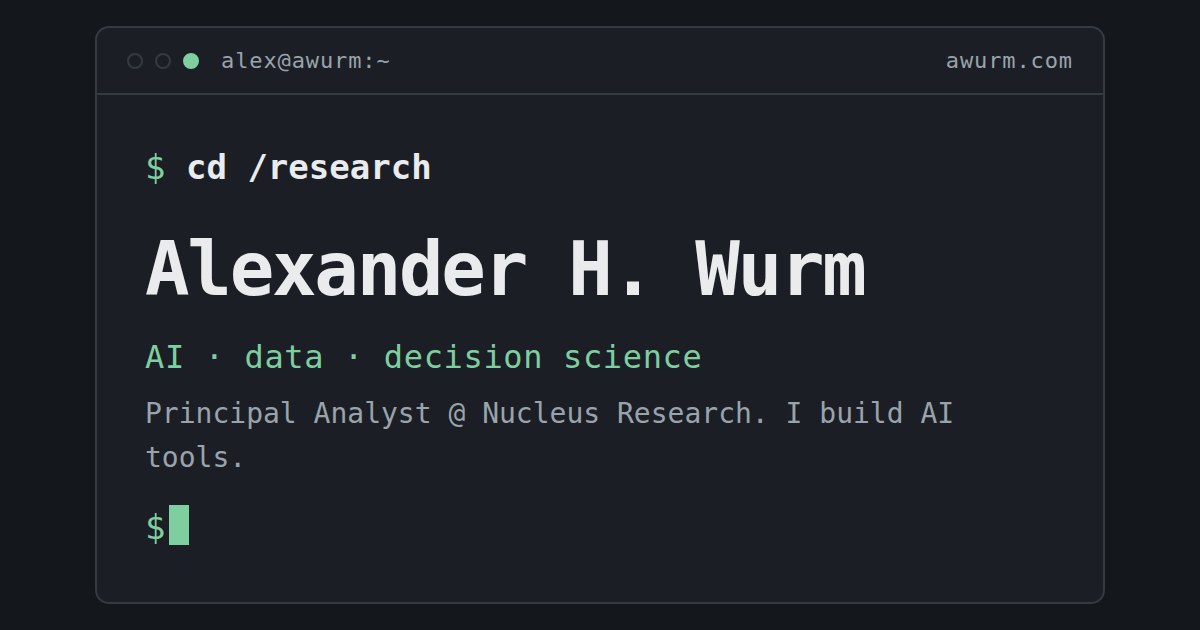
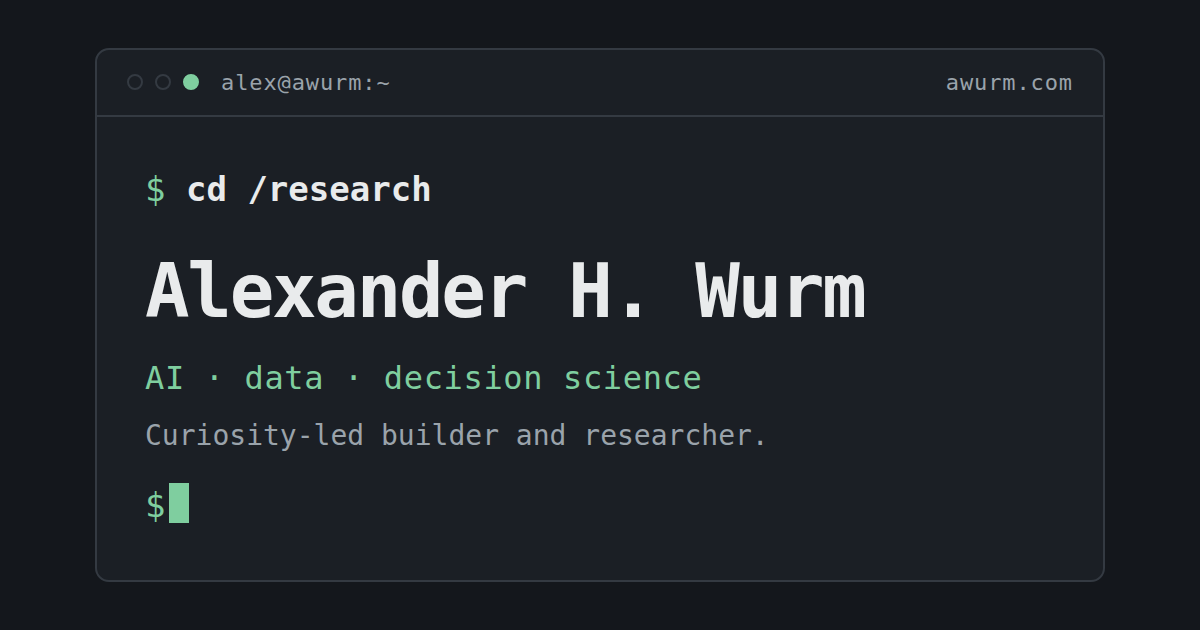
feat: 'Curiosity-led builder and researcher' identity line site-wide; strip Principal Analyst/Nucleus from chrome (hero, terminal, footer, meta, OG, llms header — stays in About experience + speaker bio); speaking goes straight into the list

diff --git a/src/data/site.ts b/src/data/site.ts
@@ -1,10 +1,10 @@
 export const site = {
   url: 'https://awurm.com',
   name: 'Alexander H. Wurm',
-  title: 'Alexander H. Wurm | Principal Analyst & Researcher',
+  title: 'Alexander H. Wurm — builder & researcher',
   // Verbatim from the old app/layout.tsx metadata.
   description:
-    'Principal Analyst and Researcher specializing in AI, data science, analytics, and data management. Academic research in cognitive science and decision modeling at University of Florida.',
+    'Curiosity-led builder and researcher — AI, data science, analytics, and decision modeling. Personal site of Alexander H. Wurm.',
   nav: [
     { label: 'Research', href: '/research/' },
     { label: 'Speaking', href: '/speaking/' },

diff --git a/src/data/profile.ts b/src/data/profile.ts
@@ -12,7 +12,7 @@ export const profile = {
   // Old hero tagline, verbatim.
   tagline: 'Advancing decision science through computational modeling and enterprise technology research',
   // ASSEMBLED: old tagline converted to a first-person sentence (COPY-REVIEW #1).
-  oneLiner: 'I build AI tools — RAG apps, decision models, open-source software — and cover the data & AI platform market as a Principal Analyst at Nucleus Research.',
+  oneLiner: 'Curiosity-led builder and researcher.',
   email: 'ahwurm1@gmail.com',
   socials: {
     linkedin: 'https://www.linkedin.com/in/alexander-w-374705132/',
